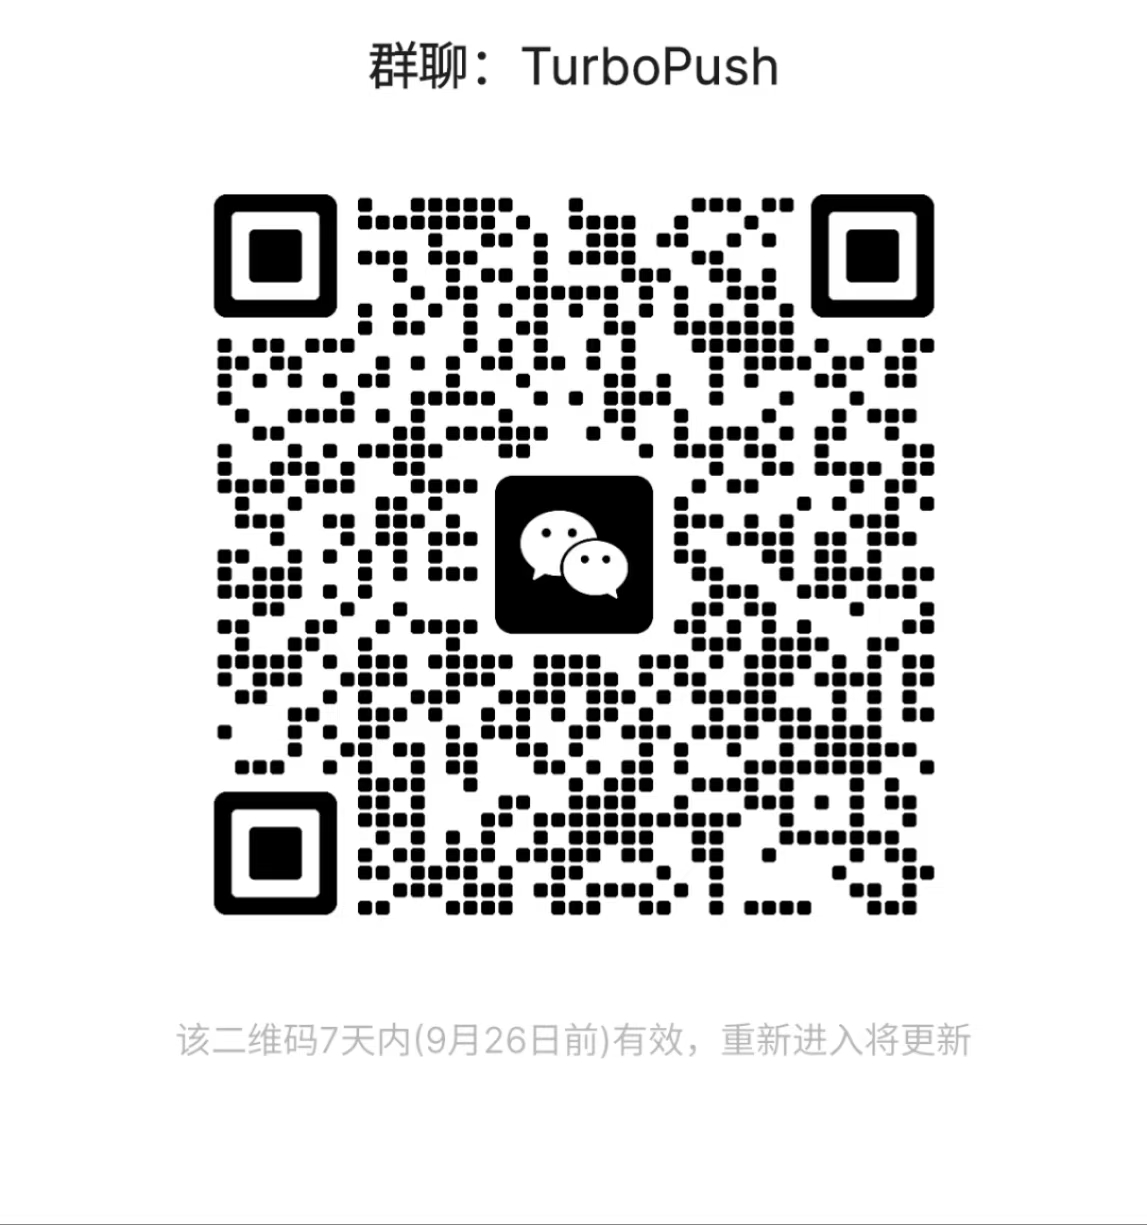
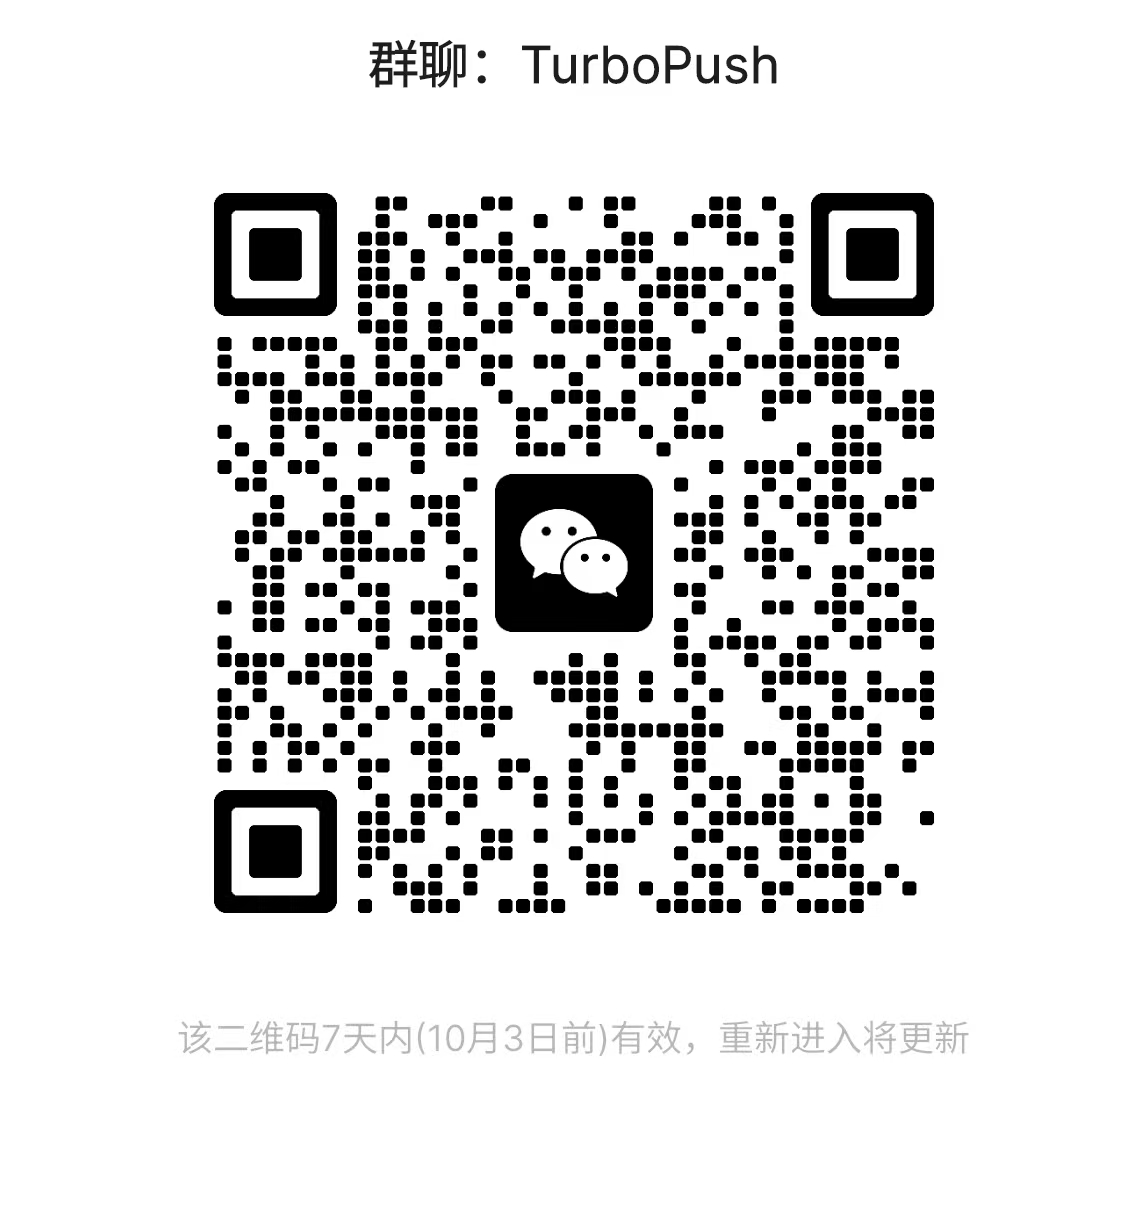
更新wx群图片，更新支持平台

diff --git a/src/components/sections/platforms-section.tsx b/src/components/sections/platforms-section.tsx
@@ -124,6 +124,20 @@ const defaultPlatforms: Platform[] = [
     status: 'active',
     description: '支持文章、图文发布',
   },
+  {
+    name: 'TikTok',
+    icon: '<svg t="1756968472580" class="icon" viewBox="0 0 1024 1024" version="1.1" xmlns="http://www.w3.org/2000/svg" p-id="4504" width="200" height="200"><path d="M732.885333 369.621333a399.445333 399.445333 0 0 0 233.642667 75.093334V276.394667c-16.512 0-32.938667-1.706667-49.066667-5.162667v132.437333a399.488 399.488 0 0 1-233.685333-75.050666v343.381333c0 171.776-138.752 310.997333-309.888 310.997333a307.626667 307.626667 0 0 1-172.501333-52.608A308.394667 308.394667 0 0 0 422.954667 1024c171.136 0 309.930667-139.221333 309.930666-311.04V369.664z m60.501334-169.728a234.88 234.88 0 0 1-60.501334-137.301333V40.96h-46.506666a235.562667 235.562667 0 0 0 107.008 158.933333zM309.632 798.634667a141.994667 141.994667 0 0 1-28.928-86.144 141.994667 141.994667 0 0 1 184.746667-135.594667V404.906667a311.509333 311.509333 0 0 0-49.024-2.858667v133.888a141.994667 141.994667 0 0 0-184.746667 135.594667c0 55.552 31.701333 103.68 77.952 127.104z" fill="#FF004F" p-id="4505"></path><path d="M683.776 328.661333a399.530667 399.530667 0 0 0 233.685333 75.050667V271.274667a234.368 234.368 0 0 1-124.074666-71.381334A235.605333 235.605333 0 0 1 686.378667 40.96h-122.154667v672a142.037333 142.037333 0 0 1-141.738667 141.824 141.397333 141.397333 0 0 1-112.853333-56.149333 142.293333 142.293333 0 0 1-77.994667-127.104 141.994667 141.994667 0 0 1 184.746667-135.594667V402.048c-168.106667 3.498667-303.36 141.354667-303.36 310.954667 0 84.650667 33.706667 161.365333 88.362667 217.429333a307.626667 307.626667 0 0 0 172.501333 52.608c171.178667 0 309.888-139.264 309.888-311.04V328.704z" fill="#000000" p-id="4506"></path><path d="M917.461333 271.274667v-35.84a232.96 232.96 0 0 1-124.074666-35.541334 234.112 234.112 0 0 0 124.074666 71.381334zM686.378667 40.96a239.402667 239.402667 0 0 1-2.56-19.328V0h-168.661334v672a141.994667 141.994667 0 0 1-141.738666 141.824 140.757333 140.757333 0 0 1-63.786667-15.189333 141.397333 141.397333 0 0 0 112.853333 56.149333 142.037333 142.037333 0 0 0 141.738667-141.781333V40.96h122.154667zM416.426667 402.048V363.946667a311.808 311.808 0 0 0-42.496-2.901334c-171.178667 0-309.930667 139.221333-309.930667 310.997334a310.997333 310.997333 0 0 0 137.386667 258.389333 310.528 310.528 0 0 1-88.32-217.429333c0-169.557333 135.253333-307.456 303.36-310.954667z" fill="#00F2EA" p-id="4507"></path></svg>',
+    supported: true,
+    status: 'active',
+    description: '支持视频发布',
+  },
+  {
+    name: 'YouTube',
+    icon: '<svg t="1757583373531" class="icon" viewBox="0 0 1024 1024" version="1.1" xmlns="http://www.w3.org/2000/svg" p-id="4535" width="200" height="200"><path d="M426.666667 682.666667V384l256 149.845333L426.666667 682.666667z m587.093333-355.541334s-10.026667-71.04-40.704-102.357333c-38.954667-41.088-82.602667-41.258667-102.613333-43.648C727.168 170.666667 512.213333 170.666667 512.213333 170.666667h-0.426666s-214.954667 0-358.229334 10.453333c-20.053333 2.389333-63.658667 2.56-102.656 43.648-30.677333 31.317333-40.661333 102.4-40.661333 102.4S0 410.538667 0 493.952v78.293333c0 83.456 10.24 166.912 10.24 166.912s9.984 71.04 40.661333 102.357334c38.997333 41.088 90.154667 39.765333 112.938667 44.074666C245.76 893.568 512 896 512 896s215.168-0.341333 358.442667-10.752c20.053333-2.432 63.658667-2.602667 102.613333-43.690667 30.72-31.317333 40.704-102.4 40.704-102.4s10.24-83.413333 10.24-166.869333v-78.250667c0-83.456-10.24-166.912-10.24-166.912z" fill="#FF0000" p-id="4536"></path></svg>',
+    supported: true,
+    status: 'active',
+    description: '支持视频发布',
+  },
 ];
 
 // 简化的状态指示器函数（现在使用圆点指示器）
